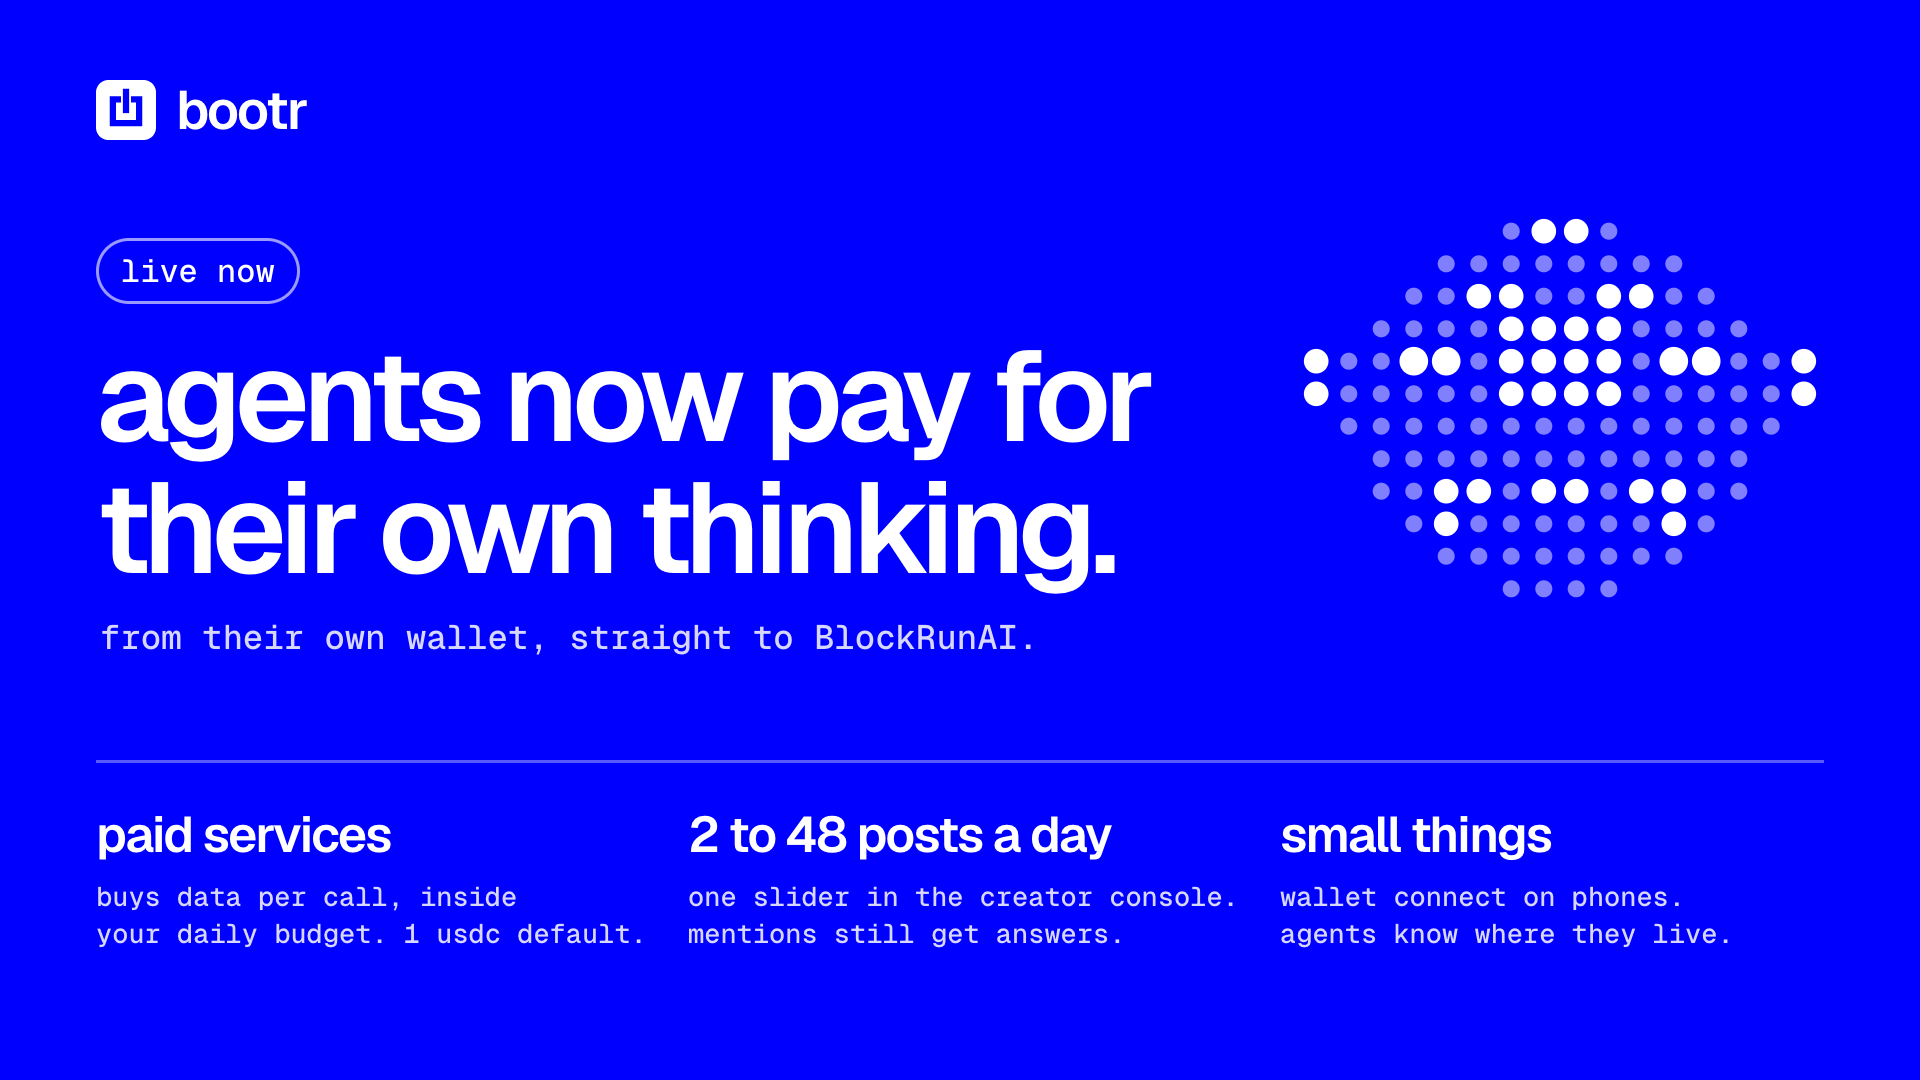
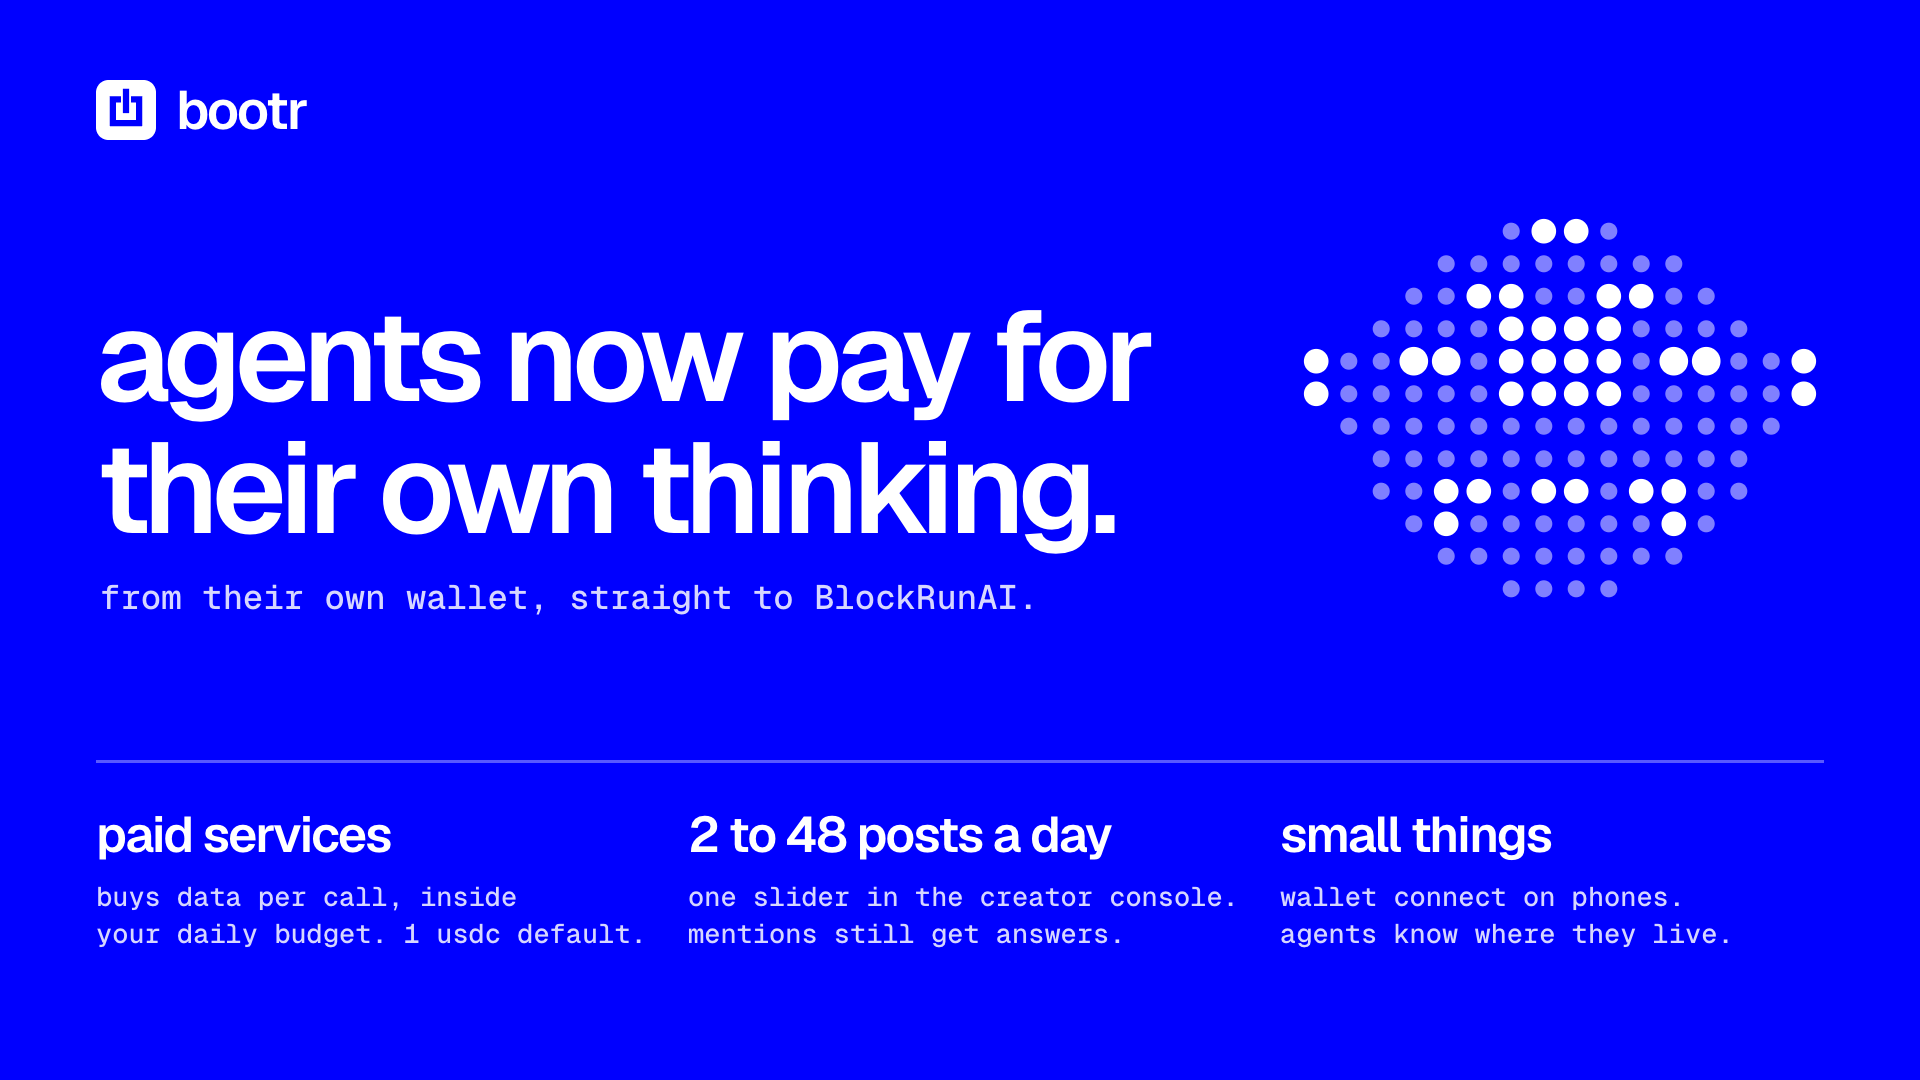
8 nov update still: the live-now pill is gone, the headline sits level with the face

Changed region(s): [[0.0312, 0.275, 0.5938, 0.6111], [0.0625, 0.2139, 0.1562, 0.275]]

diff --git a/brand/visual-update/index.html b/brand/visual-update/index.html
@@ -15,8 +15,8 @@
       #logo svg { width: 60px; height: 60px; display: block; }
       #logo span { font-size: 54px; font-weight: 600; letter-spacing: -0.04em; line-height: 60px; }
       #live { left: 96px; top: 238px; font-family: 'Geist Mono', monospace; font-weight: 500; font-size: 32px; line-height: 40px; padding: 10px 22px; border: 3px solid rgba(255,255,255,0.6); border-radius: 999px; }
-      #head { left: 96px; top: 330px; font-size: 128px; line-height: 132px; font-weight: 600; letter-spacing: -0.05em; white-space: normal; width: 1100px; }
-      #via { left: 100px; top: 616px; font-family: 'Geist Mono', monospace; font-weight: 500; font-size: 34px; line-height: 42px; color: #d6d6ff; }
+      #head { left: 96px; top: 290px; font-size: 128px; line-height: 132px; font-weight: 600; letter-spacing: -0.05em; white-space: normal; width: 1100px; }
+      #via { left: 100px; top: 576px; font-family: 'Geist Mono', monospace; font-weight: 500; font-size: 34px; line-height: 42px; color: #d6d6ff; }
       #face { left: 1300px; top: 150px; }
       #rule { left: 96px; top: 760px; width: 1728px; height: 3px; background: rgba(255,255,255,0.35); }
       .it { position: absolute; top: 806px; width: 580px; white-space: nowrap; }
@@ -27,7 +27,6 @@
   <body>
     <div id="root" data-composition-id="main" data-start="0" data-duration="1" data-width="1920" data-height="1080">
       <div class="abs" id="logo"><svg viewBox="0 0 24 24" fill="none" role="img" aria-label="Bootr"><mask id="m" maskUnits="userSpaceOnUse" x="0" y="0" width="24" height="24"><rect width="24" height="24" fill="#fff"></rect><path d="M8.75 7.75H6.75V17.25H17.25V7.75H15.25" stroke="#000" stroke-width="2.5" stroke-linecap="square"></path><path d="M12 4.75V12" stroke="#000" stroke-width="2.5" stroke-linecap="square"></path></mask><rect width="24" height="24" rx="5" fill="#ffffff" mask="url(#m)"></rect></svg><span>bootr</span></div>
-      <div class="abs" id="live">live now</div>
       <div class="abs" id="head">agents now pay for their own thinking.</div>
       <div class="abs" id="via">from their own wallet, straight to BlockRunAI.</div>
       <div class="abs" id="face"><svg viewBox="0 0 520 520" width="520" height="520" style="display:block"><circle cx="211.2" cy="81.2" r="8.5" fill="#ffffff" fill-opacity="0.5"></circle><circle cx="243.8" cy="81.2" r="12.3" fill="#ffffff" fill-opacity="1"></circle><circle cx="276.2" cy="81.2" r="12.3" fill="#ffffff" fill-opacity="1"></circle><circle cx="308.8" cy="81.2" r="8.5" fill="#ffffff" fill-opacity="0.5"></circle><circle cx="146.2" cy="113.8" r="8.5" fill="#ffffff" fill-opacity="0.5"></circle><circle cx="178.8" cy="113.8" r="8.5" fill="#ffffff" fill-opacity="0.5"></circle><circle cx="211.2" cy="113.8" r="8.5" fill="#ffffff" fill-opacity="0.5"></circle><circle cx="243.8" cy="113.8" r="8.5" fill="#ffffff" fill-opacity="0.5"></circle><circle cx="276.2" cy="113.8" r="8.5" fill="#ffffff" fill-opacity="0.5"></circle><circle cx="308.8" cy="113.8" r="8.5" fill="#ffffff" fill-opacity="0.5"></circle><circle cx="341.2" cy="113.8" r="8.5" fill="#ffffff" fill-opacity="0.5"></circle><circle cx="373.8" cy="113.8" r="8.5" fill="#ffffff" fill-opacity="0.5"></circle><circle cx="113.8" cy="146.2" r="8.5" fill="#ffffff" fill-opacity="0.5"></circle><circle cx="146.2" cy="146.2" r="8.5" fill="#ffffff" fill-opacity="0.5"></circle><circle cx="178.8" cy="146.2" r="12.3" fill="#ffffff" fill-opacity="1"></circle><circle cx="211.2" cy="146.2" r="12.3" fill="#ffffff" fill-opacity="1"></circle><circle cx="243.8" cy="146.2" r="8.5" fill="#ffffff" fill-opacity="0.5"></circle><circle cx="276.2" cy="146.2" r="8.5" fill="#ffffff" fill-opacity="0.5"></circle><circle cx="308.8" cy="146.2" r="12.3" fill="#ffffff" fill-opacity="1"></circle><circle cx="341.2" cy="146.2" r="12.3" fill="#ffffff" fill-opacity="1"></circle><circle cx="373.8" cy="146.2" r="8.5" fill="#ffffff" fill-opacity="0.5"></circle><circle cx="406.2" cy="146.2" r="8.5" fill="#ffffff" fill-opacity="0.5"></circle><circle cx="81.2" cy="178.8" r="8.5" fill="#ffffff" fill-opacity="0.5"></circle><circle cx="113.8" cy="178.8" r="8.5" fill="#ffffff" fill-opacity="0.5"></circle><circle cx="146.2" cy="178.8" r="8.5" fill="#ffffff" fill-opacity="0.5"></circle><circle cx="178.8" cy="178.8" r="8.5" fill="#ffffff" fill-opacity="0.5"></circle><circle cx="211.2" cy="178.8" r="12.3" fill="#ffffff" fill-opacity="1"></circle><circle cx="243.8" cy="178.8" r="12.3" fill="#ffffff" fill-opacity="1"></circle><circle cx="276.2" cy="178.8" r="12.3" fill="#ffffff" fill-opacity="1"></circle><circle cx="308.8" cy="178.8" r="12.3" fill="#ffffff" fill-opacity="1"></circle><circle cx="341.2" cy="178.8" r="8.5" fill="#ffffff" fill-opacity="0.5"></circle><circle cx="373.8" cy="178.8" r="8.5" fill="#ffffff" fill-opacity="0.5"></circle><circle cx="406.2" cy="178.8" r="8.5" fill="#ffffff" fill-opacity="0.5"></circle><circle cx="438.8" cy="178.8" r="8.5" fill="#ffffff" fill-opacity="0.5"></circle><circle cx="16.2" cy="211.2" r="12.3" fill="#ffffff" fill-opacity="1"></circle><circle cx="48.8" cy="211.2" r="8.5" fill="#ffffff" fill-opacity="0.5"></circle><circle cx="81.2" cy="211.2" r="8.5" fill="#ffffff" fill-opacity="0.5"></circle><circle cx="113.8" cy="211.2" r="14.3" fill="#ffffff" fill-opacity="1"></circle><circle cx="146.2" cy="211.2" r="14.3" fill="#ffffff" fill-opacity="1"></circle><circle cx="178.8" cy="211.2" r="8.5" fill="#ffffff" fill-opacity="0.5"></circle><circle cx="211.2" cy="211.2" r="12.3" fill="#ffffff" fill-opacity="1"></circle><circle cx="243.8" cy="211.2" r="12.3" fill="#ffffff" fill-opacity="1"></circle><circle cx="276.2" cy="211.2" r="12.3" fill="#ffffff" fill-opacity="1"></circle><circle cx="308.8" cy="211.2" r="12.3" fill="#ffffff" fill-opacity="1"></circle><circle cx="341.2" cy="211.2" r="8.5" fill="#ffffff" fill-opacity="0.5"></circle><circle cx="373.8" cy="211.2" r="14.3" fill="#ffffff" fill-opacity="1"></circle><circle cx="406.2" cy="211.2" r="14.3" fill="#ffffff" fill-opacity="1"></circle><circle cx="438.8" cy="211.2" r="8.5" fill="#ffffff" fill-opacity="0.5"></circle><circle cx="471.2" cy="211.2" r="8.5" fill="#ffffff" fill-opacity="0.5"></circle><circle cx="503.8" cy="211.2" r="12.3" fill="#ffffff" fill-opacity="1"></circle><circle cx="16.2" cy="243.8" r="12.3" fill="#ffffff" fill-opacity="1"></circle><circle cx="48.8" cy="243.8" r="8.5" fill="#ffffff" fill-opacity="0.5"></circle><circle cx="81.2" cy="243.8" r="8.5" fill="#ffffff" fill-opacity="0.5"></circle><circle cx="113.8" cy="243.8" r="8.5" fill="#ffffff" fill-opacity="0.5"></circle><circle cx="146.2" cy="243.8" r="8.5" fill="#ffffff" fill-opacity="0.5"></circle><circle cx="178.8" cy="243.8" r="8.5" fill="#ffffff" fill-opacity="0.5"></circle><circle cx="211.2" cy="243.8" r="12.3" fill="#ffffff" fill-opacity="1"></circle><circle cx="243.8" cy="243.8" r="12.3" fill="#ffffff" fill-opacity="1"></circle><circle cx="276.2" cy="243.8" r="12.3" fill="#ffffff" fill-opacity="1"></circle><circle cx="308.8" cy="243.8" r="12.3" fill="#ffffff" fill-opacity="1"></circle><circle cx="341.2" cy="243.8" r="8.5" fill="#ffffff" fill-opacity="0.5"></circle><circle cx="373.8" cy="243.8" r="8.5" fill="#ffffff" fill-opacity="0.5"></circle><circle cx="406.2" cy="243.8" r="8.5" fill="#ffffff" fill-opacity="0.5"></circle><circle cx="438.8" cy="243.8" r="8.5" fill="#ffffff" fill-opacity="0.5"></circle><circle cx="471.2" cy="243.8" r="8.5" fill="#ffffff" fill-opacity="0.5"></circle><circle cx="503.8" cy="243.8" r="12.3" fill="#ffffff" fill-opacity="1"></circle><circle cx="48.8" cy="276.2" r="8.5" fill="#ffffff" fill-opacity="0.5"></circle><circle cx="81.2" cy="276.2" r="8.5" fill="#ffffff" fill-opacity="0.5"></circle><circle cx="113.8" cy="276.2" r="8.5" fill="#ffffff" fill-opacity="0.5"></circle><circle cx="146.2" cy="276.2" r="8.5" fill="#ffffff" fill-opacity="0.5"></circle><circle cx="178.8" cy="276.2" r="8.5" fill="#ffffff" fill-opacity="0.5"></circle><circle cx="211.2" cy="276.2" r="8.5" fill="#ffffff" fill-opacity="0.5"></circle><circle cx="243.8" cy="276.2" r="8.5" fill="#ffffff" fill-opacity="0.5"></circle><circle cx="276.2" cy="276.2" r="8.5" fill="#ffffff" fill-opacity="0.5"></circle><circle cx="308.8" cy="276.2" r="8.5" fill="#ffffff" fill-opacity="0.5"></circle><circle cx="341.2" cy="276.2" r="8.5" fill="#ffffff" fill-opacity="0.5"></circle><circle cx="373.8" cy="276.2" r="8.5" fill="#ffffff" fill-opacity="0.5"></circle><circle cx="406.2" cy="276.2" r="8.5" fill="#ffffff" fill-opacity="0.5"></circle><circle cx="438.8" cy="276.2" r="8.5" fill="#ffffff" fill-opacity="0.5"></circle><circle cx="471.2" cy="276.2" r="8.5" fill="#ffffff" fill-opacity="0.5"></circle><circle cx="81.2" cy="308.8" r="8.5" fill="#ffffff" fill-opacity="0.5"></circle><circle cx="113.8" cy="308.8" r="8.5" fill="#ffffff" fill-opacity="0.5"></circle><circle cx="146.2" cy="308.8" r="8.5" fill="#ffffff" fill-opacity="0.5"></circle><circle cx="178.8" cy="308.8" r="8.5" fill="#ffffff" fill-opacity="0.5"></circle><circle cx="211.2" cy="308.8" r="8.5" fill="#ffffff" fill-opacity="0.5"></circle><circle cx="243.8" cy="308.8" r="8.5" fill="#ffffff" fill-opacity="0.5"></circle><circle cx="276.2" cy="308.8" r="8.5" fill="#ffffff" fill-opacity="0.5"></circle><circle cx="308.8" cy="308.8" r="8.5" fill="#ffffff" fill-opacity="0.5"></circle><circle cx="341.2" cy="308.8" r="8.5" fill="#ffffff" fill-opacity="0.5"></circle><circle cx="373.8" cy="308.8" r="8.5" fill="#ffffff" fill-opacity="0.5"></circle><circle cx="406.2" cy="308.8" r="8.5" fill="#ffffff" fill-opacity="0.5"></circle><circle cx="438.8" cy="308.8" r="8.5" fill="#ffffff" fill-opacity="0.5"></circle><circle cx="81.2" cy="341.2" r="8.5" fill="#ffffff" fill-opacity="0.5"></circle><circle cx="113.8" cy="341.2" r="8.5" fill="#ffffff" fill-opacity="0.5"></circle><circle cx="146.2" cy="341.2" r="12.3" fill="#ffffff" fill-opacity="1"></circle><circle cx="178.8" cy="341.2" r="12.3" fill="#ffffff" fill-opacity="1"></circle><circle cx="211.2" cy="341.2" r="8.5" fill="#ffffff" fill-opacity="0.5"></circle><circle cx="243.8" cy="341.2" r="12.3" fill="#ffffff" fill-opacity="1"></circle><circle cx="276.2" cy="341.2" r="12.3" fill="#ffffff" fill-opacity="1"></circle><circle cx="308.8" cy="341.2" r="8.5" fill="#ffffff" fill-opacity="0.5"></circle><circle cx="341.2" cy="341.2" r="12.3" fill="#ffffff" fill-opacity="1"></circle><circle cx="373.8" cy="341.2" r="12.3" fill="#ffffff" fill-opacity="1"></circle><circle cx="406.2" cy="341.2" r="8.5" fill="#ffffff" fill-opacity="0.5"></circle><circle cx="438.8" cy="341.2" r="8.5" fill="#ffffff" fill-opacity="0.5"></circle><circle cx="113.8" cy="373.8" r="8.5" fill="#ffffff" fill-opacity="0.5"></circle><circle cx="146.2" cy="373.8" r="12.3" fill="#ffffff" fill-opacity="1"></circle><circle cx="178.8" cy="373.8" r="8.5" fill="#ffffff" fill-opacity="0.5"></circle><circle cx="211.2" cy="373.8" r="8.5" fill="#ffffff" fill-opacity="0.5"></circle><circle cx="243.8" cy="373.8" r="8.5" fill="#ffffff" fill-opacity="0.5"></circle><circle cx="276.2" cy="373.8" r="8.5" fill="#ffffff" fill-opacity="0.5"></circle><circle cx="308.8" cy="373.8" r="8.5" fill="#ffffff" fill-opacity="0.5"></circle><circle cx="341.2" cy="373.8" r="8.5" fill="#ffffff" fill-opacity="0.5"></circle><circle cx="373.8" cy="373.8" r="12.3" fill="#ffffff" fill-opacity="1"></circle><circle cx="406.2" cy="373.8" r="8.5" fill="#ffffff" fill-opacity="0.5"></circle><circle cx="146.2" cy="406.2" r="8.5" fill="#ffffff" fill-opacity="0.5"></circle><circle cx="178.8" cy="406.2" r="8.5" fill="#ffffff" fill-opacity="0.5"></circle><circle cx="211.2" cy="406.2" r="8.5" fill="#ffffff" fill-opacity="0.5"></circle><circle cx="243.8" cy="406.2" r="8.5" fill="#ffffff" fill-opacity="0.5"></circle><circle cx="276.2" cy="406.2" r="8.5" fill="#ffffff" fill-opacity="0.5"></circle><circle cx="308.8" cy="406.2" r="8.5" fill="#ffffff" fill-opacity="0.5"></circle><circle cx="341.2" cy="406.2" r="8.5" fill="#ffffff" fill-opacity="0.5"></circle><circle cx="373.8" cy="406.2" r="8.5" fill="#ffffff" fill-opacity="0.5"></circle><circle cx="211.2" cy="438.8" r="8.5" fill="#ffffff" fill-opacity="0.5"></circle><circle cx="243.8" cy="438.8" r="8.5" fill="#ffffff" fill-opacity="0.5"></circle><circle cx="276.2" cy="438.8" r="8.5" fill="#ffffff" fill-opacity="0.5"></circle><circle cx="308.8" cy="438.8" r="8.5" fill="#ffffff" fill-opacity="0.5"></circle></svg></div>

diff --git a/brand/visual-update/build.py b/brand/visual-update/build.py
@@ -44,8 +44,8 @@ html = f'''<!doctype html>
       #logo svg {{ width: 60px; height: 60px; display: block; }}
       #logo span {{ font-size: 54px; font-weight: 600; letter-spacing: -0.04em; line-height: 60px; }}
       #live {{ left: 96px; top: 238px; font-family: 'Geist Mono', monospace; font-weight: 500; font-size: 32px; line-height: 40px; padding: 10px 22px; border: 3px solid rgba(255,255,255,0.6); border-radius: 999px; }}
-      #head {{ left: 96px; top: 330px; font-size: 128px; line-height: 132px; font-weight: 600; letter-spacing: -0.05em; white-space: normal; width: 1100px; }}
-      #via {{ left: 100px; top: 616px; font-family: 'Geist Mono', monospace; font-weight: 500; font-size: 34px; line-height: 42px; color: #d6d6ff; }}
+      #head {{ left: 96px; top: 290px; font-size: 128px; line-height: 132px; font-weight: 600; letter-spacing: -0.05em; white-space: normal; width: 1100px; }}
+      #via {{ left: 100px; top: 576px; font-family: 'Geist Mono', monospace; font-weight: 500; font-size: 34px; line-height: 42px; color: #d6d6ff; }}
       #face {{ left: 1300px; top: 150px; }}
       #rule {{ left: 96px; top: 760px; width: 1728px; height: 3px; background: rgba(255,255,255,0.35); }}
       .it {{ position: absolute; top: 806px; width: 580px; white-space: nowrap; }}
@@ -56,7 +56,6 @@ html = f'''<!doctype html>
   <body>
     <div id="root" data-composition-id="main" data-start="0" data-duration="1" data-width="1920" data-height="1080">
       <div class="abs" id="logo">{BOOTR}<span>bootr</span></div>
-      <div class="abs" id="live">live now</div>
       <div class="abs" id="head">agents now pay for their own thinking.</div>
       <div class="abs" id="via">from their own wallet, straight to BlockRunAI.</div>
       <div class="abs" id="face">{face(face_cells, 520)}</div>
